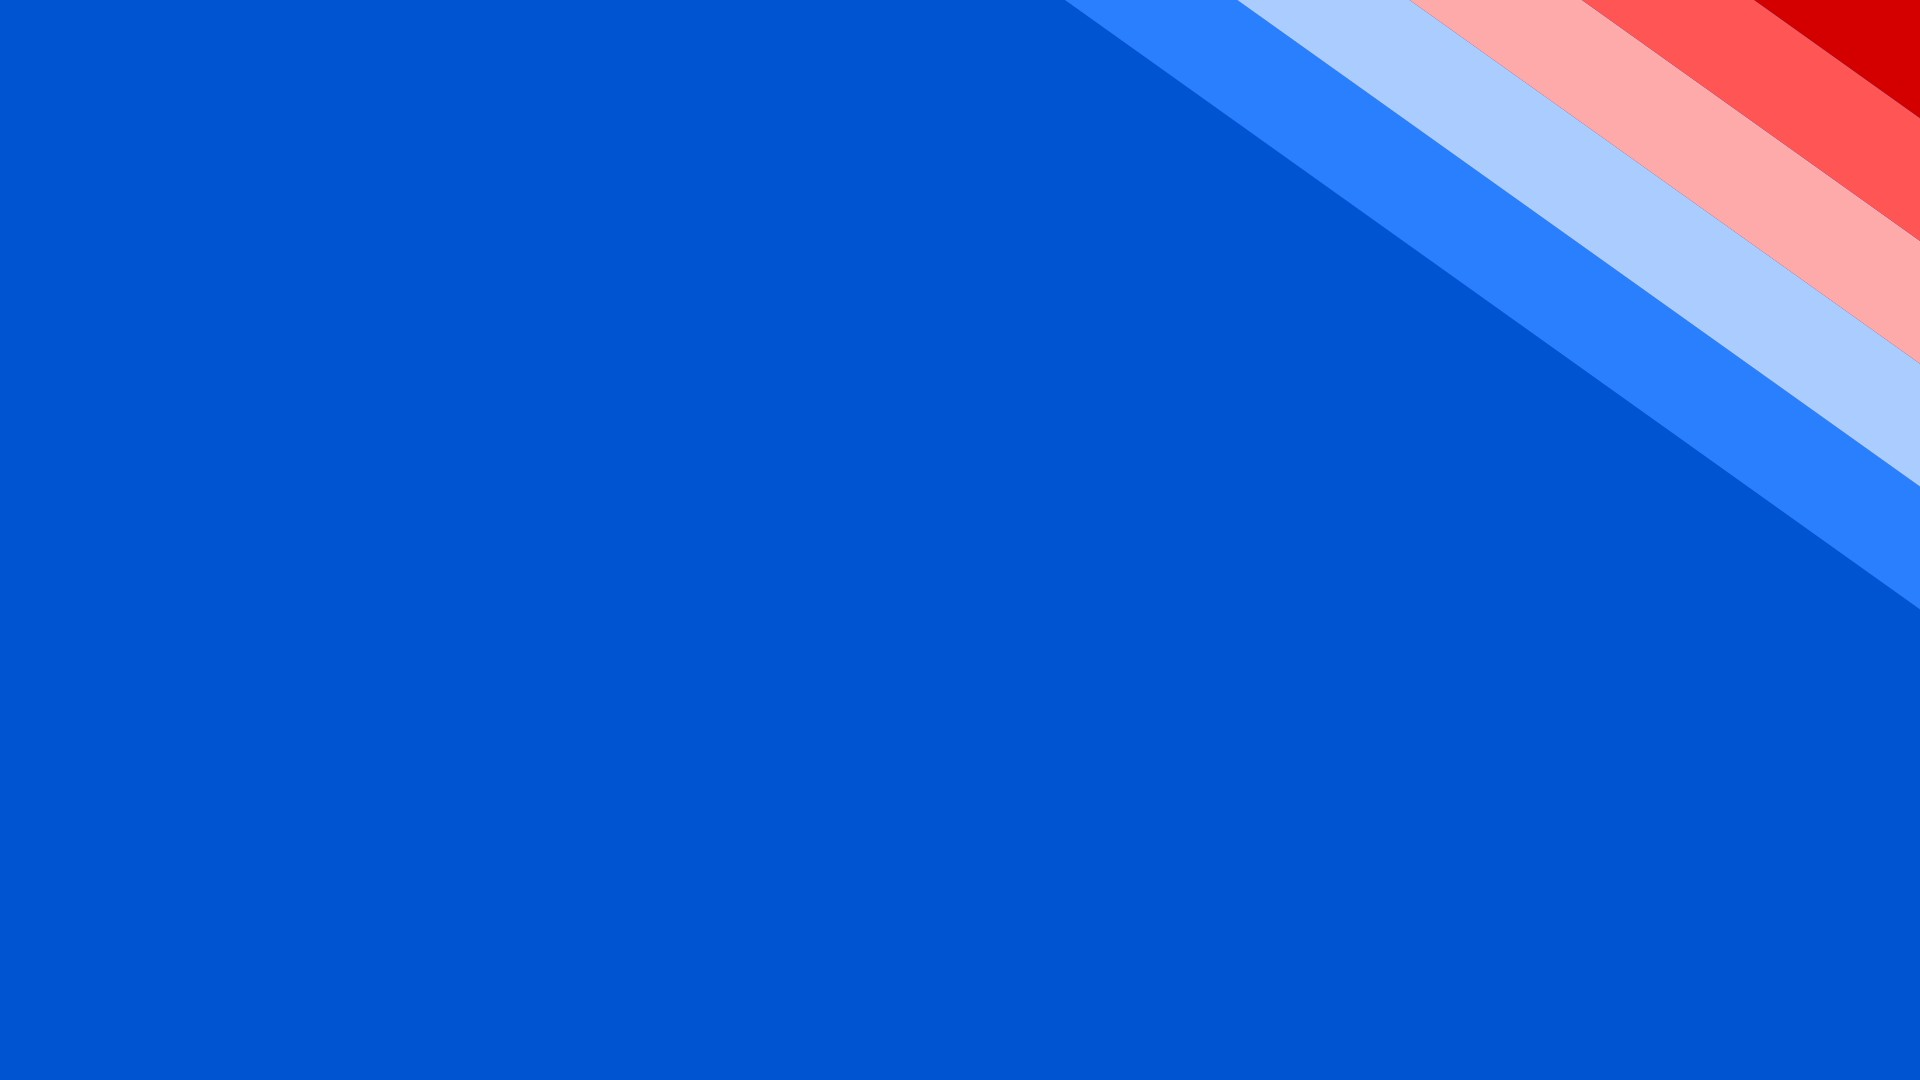
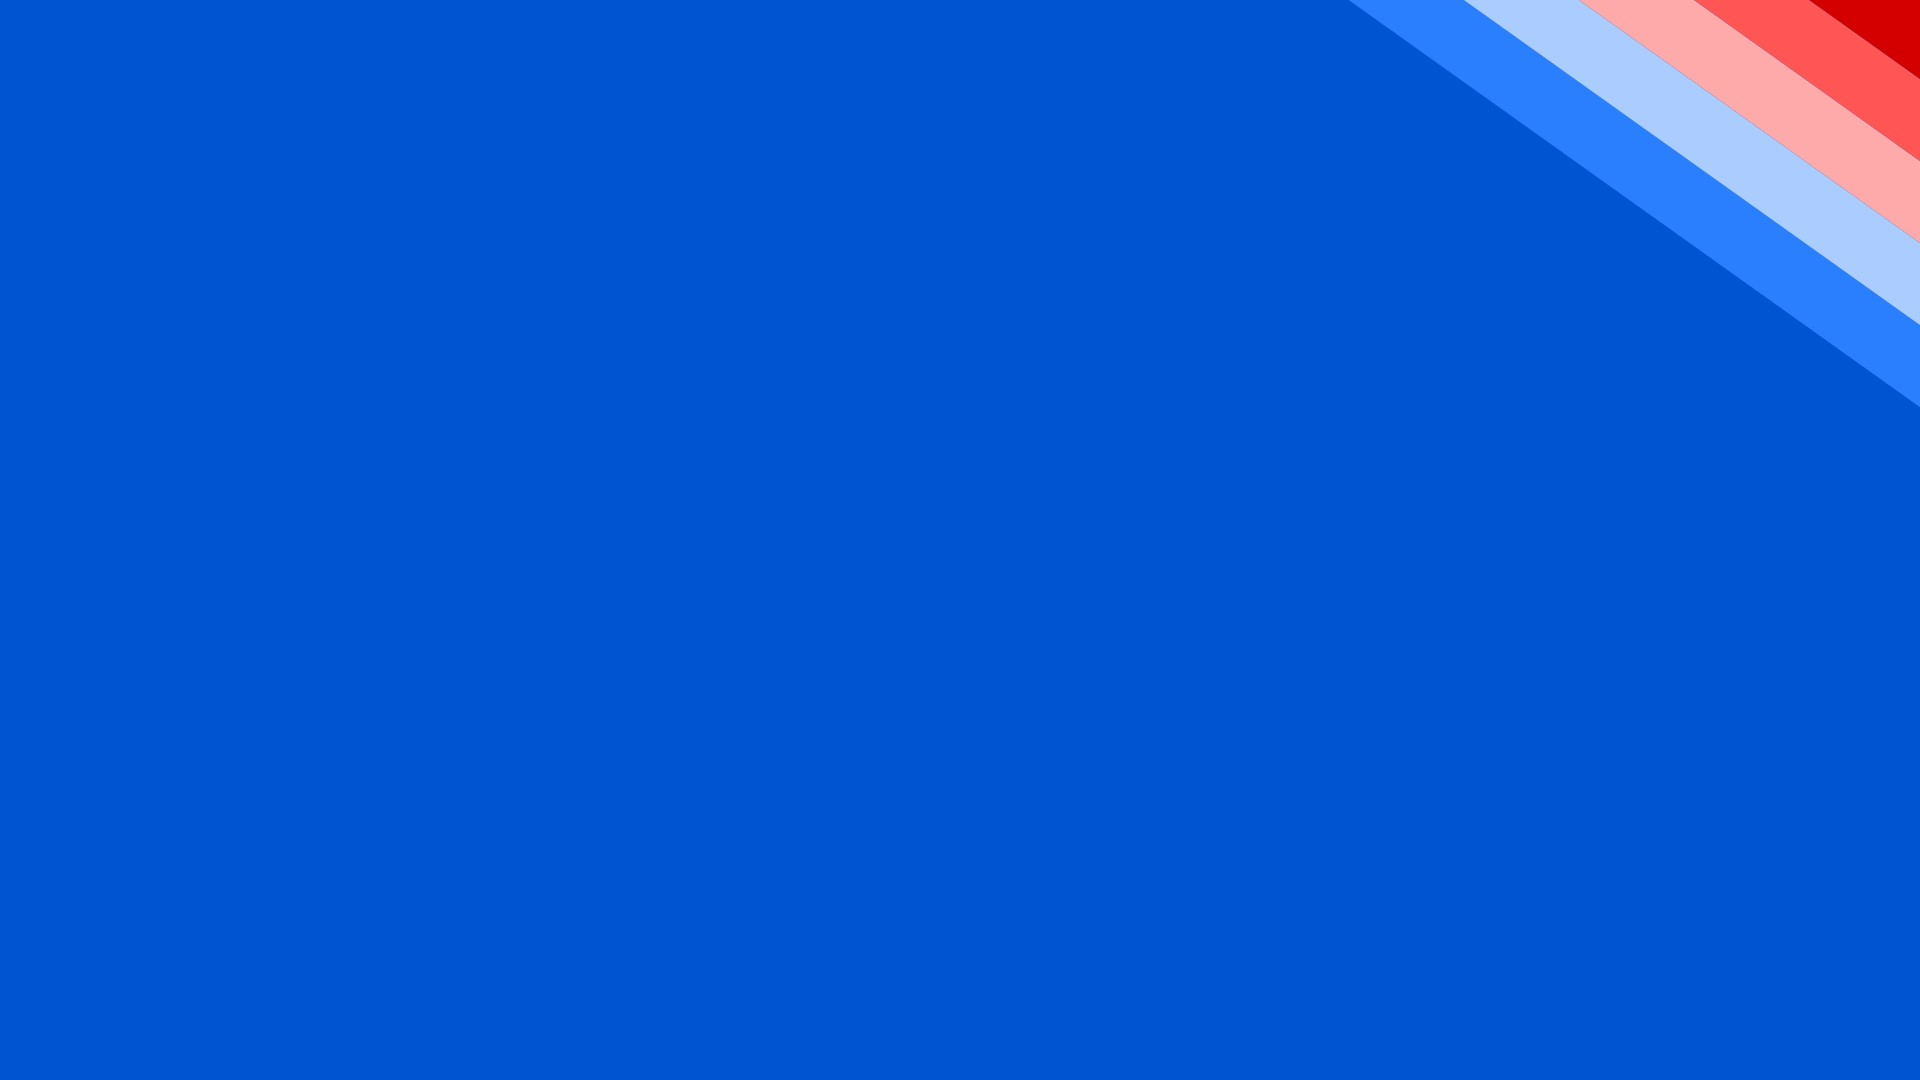
Link da tese no slide principal

Changed region(s): [[0.5625, 0.0, 1.0, 0.55]]

diff --git a/css/style.less b/css/style.less
@@ -205,7 +205,7 @@
     }
     h1#talk-title {
       margin: 0;
-      font-size: @basefontsize * 2;
+      font-size: @basefontsize * 1.75;
       line-height: @basefontsize * 2.75;
       text-transform: none;
       font-weight: bold;
@@ -219,7 +219,6 @@
       text-decoration: underline;
     }
     .talk-info {
-      padding-top: 100px;
       .talk-logos-container {
         position: relative;
         width: 100%;

diff --git a/slides.md b/slides.md
@@ -12,8 +12,10 @@ The reveal.js configuration can be found in index.html
 </div>
 
 <h1 id="talk-title">
-  Modeling of magnetic field observations
-  from continental <br> to microscopic scale
+  Modeling of magnetic field
+  observations
+  <br>
+  from continental  to microscopic scale
 </h1>
 <p id="talk-authors">
   <a href="https://www.leouieda.com" id="talk-speaker">Leonardo Uieda</a>
@@ -27,6 +29,9 @@ The reveal.js configuration can be found in index.html
 29 de setembro 2025
 <span style="margin: 0 20px"></span>
 Concurso de Livre Docência | IAG/USP
+
+<i class="fa fa-book" style="margin: 0 10px 0 0"></i>
+Tese: [doi.org/10.6084/m9.figshare.28791908](https://doi.org/10.6084/m9.figshare.28791908)
 
 <!-- Permission to reuse and CC-BY license logo -->
 <i class="fa fa-camera" style="margin: 0 10px 0 0"></i>
@@ -51,19 +56,14 @@ Feel free to screenshot/share/reuse this presentation
 
 ===============================================================================
 
-
 # Conteúdo
 
-<div class="text-left">
-
 1. <!-- .element: class="fragment" -->Introdução
-1. <!-- .element: class="fragment" -->Fontes equivalentes e gradient boosting
-1. <!-- .element: class="fragment" -->Fontes equivalentes magnéticas
+1. <!-- .element: class="fragment" -->Fontes equivalentes
 1. <!-- .element: class="fragment" -->Microscopia magnética
 1. <!-- .element: class="fragment" -->Inversão de Euler
 1. <!-- .element: class="fragment" -->Conclusões
 
-</div>
 
 ===============================================================================
 
